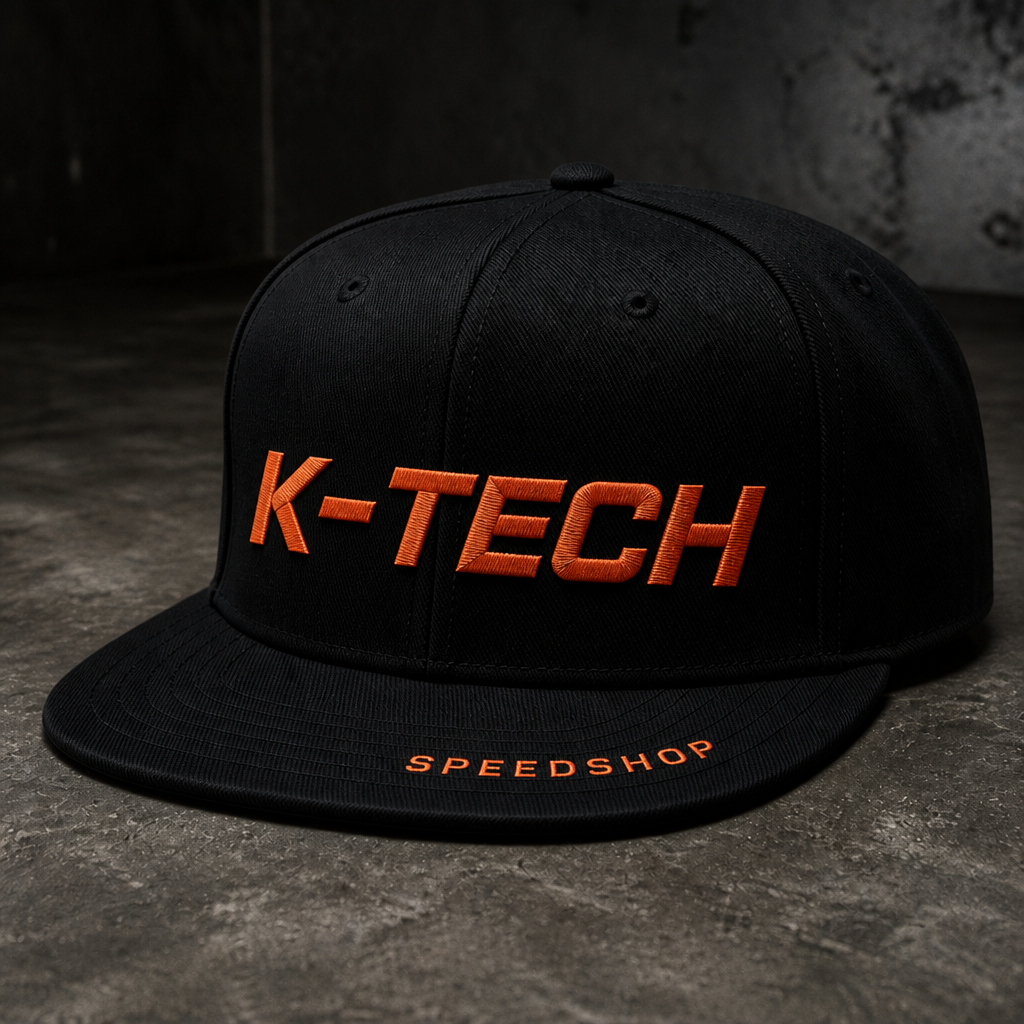
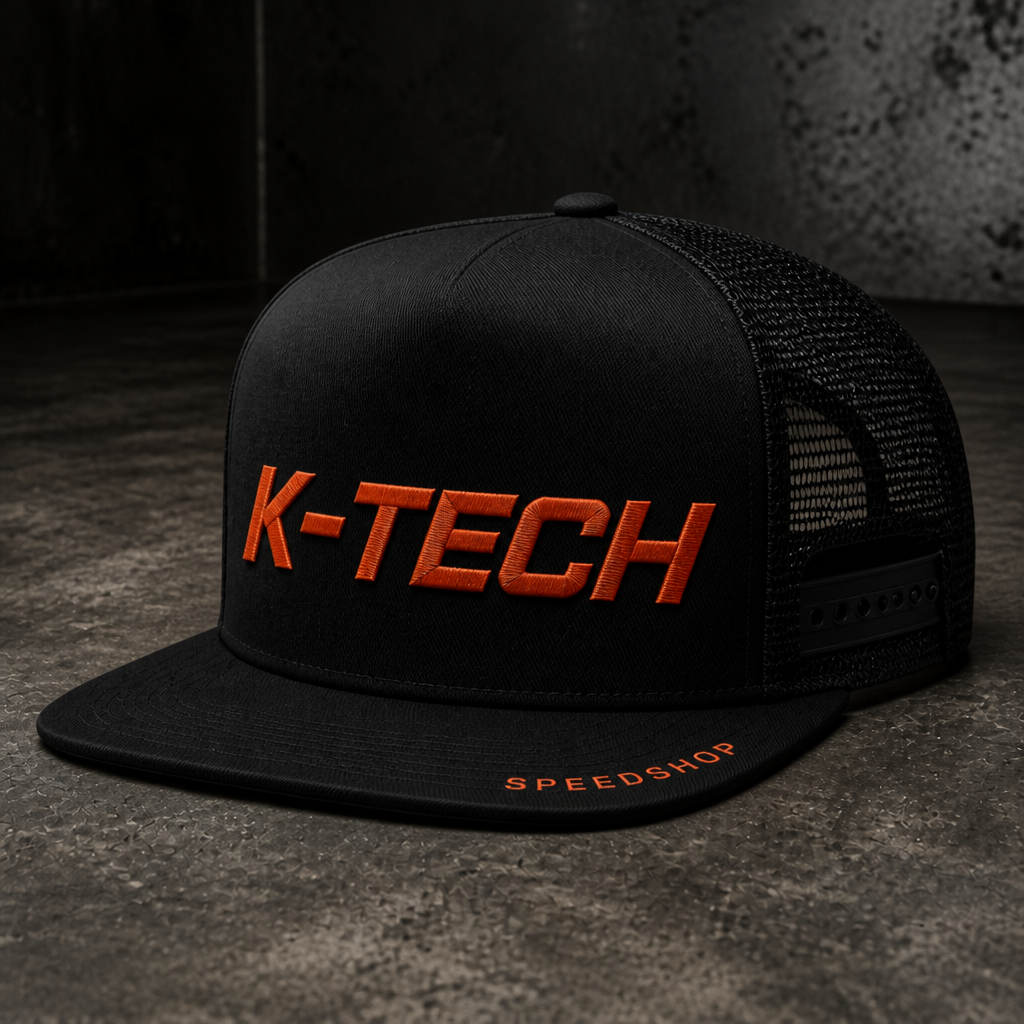
Swap the merch hat to a flat-bill trucker.

diff --git a/dist/shop/index.html b/dist/shop/index.html
@@ -1,6 +1,6 @@
 <!DOCTYPE html><html lang="en"> <head><meta charset="utf-8"><meta name="viewport" content="width=device-width, initial-scale=1"><title>K-TECH Speedshop Merch</title><meta name="description" content="K-TECH Speedshop hats, tees, hoodies, and K_tech merch. Order by Instagram DM or email. Sizes ship from the shop."><link rel="canonical" href="https://ktechspeedshop.com/shop/"><meta name="robots" content="index,follow,max-image-preview:large"><meta property="og:type" content="website"><meta property="og:site_name" content="K-TECH Speedshop"><meta property="og:title" content="K-TECH Speedshop Merch"><meta property="og:description" content="K-TECH Speedshop hats, tees, hoodies, and K_tech merch. Order by Instagram DM or email. Sizes ship from the shop."><meta property="og:url" content="https://ktechspeedshop.com/shop/"><meta property="og:image" content="https://ktechspeedshop.com/images/merch/hat.png"><meta name="twitter:card" content="summary_large_image"><meta name="twitter:title" content="K-TECH Speedshop Merch"><meta name="twitter:description" content="K-TECH Speedshop hats, tees, hoodies, and K_tech merch. Order by Instagram DM or email. Sizes ship from the shop."><meta name="twitter:image" content="https://ktechspeedshop.com/images/merch/hat.png"><link rel="icon" href="/favicon.svg" type="image/svg+xml"><link rel="sitemap" href="/sitemap-index.xml"><script type="application/ld+json">{"@context":"https://schema.org","@graph":[{"@type":"AutomotiveBusiness","@id":"https://ktechspeedshop.com/#business","name":"K-TECH Speedshop","url":"https://ktechspeedshop.com","image":"https://ktechspeedshop.com/images/merch/hat.png","description":"K-TECH Speedshop builds custom Chevrolet C10 trucks and fabricates parts for 1967–1987 C10s. See completed builds, shop merch, and browse projects for sale.","email":"shop@ktechspeedshop.com","sameAs":["https://instagram.com/ktechspeedshop"],"areaServed":"US","knowsAbout":["Chevrolet C10","C10 restomod","custom truck builds","LS swap","air ride","67-72 C10","squarebody C10"]},{"@type":"WebSite","@id":"https://ktechspeedshop.com/#website","url":"https://ktechspeedshop.com","name":"K-TECH Speedshop","description":"K-TECH Speedshop builds custom Chevrolet C10 trucks and fabricates parts for 1967–1987 C10s. See completed builds, shop merch, and browse projects for sale.","publisher":{"@id":"https://ktechspeedshop.com/#business"}}]}</script><link rel="stylesheet" href="/_astro/about.BAKj2FCd.css"></head> <body> <a class="skip" href="#main" style="position:absolute;left:-999px">Skip to content</a>  <header class="site-header"> <a class="wordmark" href="/" aria-label="K-TECH Speedshop home"> <strong>K-TECH</strong> <span>SPEEDSHOP</span> </a> <button class="nav-toggle" type="button" aria-expanded="false" aria-controls="nav">Menu</button> <nav class="nav" id="nav"> <a href="/builds"> Builds </a><a href="/projects"> Projects </a><a href="/for-sale"> For Sale </a><a href="/parts"> Parts </a><a href="/shop" aria-current="page"> Shop </a><a href="/journal"> Journal </a><a href="/about"> The Shop </a> <a class="nav-cta" href="/contact">Build inquiry</a> </nav> </header> <script type="module">const e=document.querySelector(".nav-toggle"),n=document.querySelector("#nav");e?.addEventListener("click",()=>{const t=n?.classList.toggle("open");e.setAttribute("aria-expanded",t?"true":"false")});</script> <main id="main" class="wrap page-hero"> <span class="kicker">Merch</span> <h1>The uniform.</h1> <p class="lede">
 Hats, tees, hoodies. Order by Instagram or email with size. No fake 40-page store.
       When a drop is gone, it is gone.
-</p> <div class="product-grid" style="margin-top:2.2rem"> <article class="product"> <img src="/images/merch/hat.png" alt="K-TECH snapback K-TECH Speedshop merch" width="800" height="800" loading="lazy"> <div class="product-body"> <h3>K-TECH snapback</h3> <p>Black hat, rust K-TECH mark. The one that lives in the shop truck.</p> <p>One size</p> <p class="price">$32</p> <div class="btn-row" style="margin-top:0.8rem"> <a class="btn rust" href="mailto:shop@ktechspeedshop.com?subject=Merch%3A%20K-TECH%20snapback">Email to buy</a> <a class="btn ghost" href="https://instagram.com/ktechspeedshop">DM to buy</a> </div> </div> </article><article class="product"> <img src="/images/merch/tee.png" alt="K-TECH tee K-TECH Speedshop merch" width="800" height="800" loading="lazy"> <div class="product-body"> <h3>K-TECH tee</h3> <p>Heavyweight black tee. K-TECH SPEEDSHOP on the chest.</p> <p>S–XXL</p> <p class="price">$28</p> <div class="btn-row" style="margin-top:0.8rem"> <a class="btn rust" href="mailto:shop@ktechspeedshop.com?subject=Merch%3A%20K-TECH%20tee">Email to buy</a> <a class="btn ghost" href="https://instagram.com/ktechspeedshop">DM to buy</a> </div> </div> </article><article class="product"> <img src="/images/merch/hoodie.png" alt="K-TECH hoodie K-TECH Speedshop merch" width="800" height="800" loading="lazy"> <div class="product-body"> <h3>K-TECH hoodie</h3> <p>K-TECH SPEEDSHOP on the chest. The hoodie you wear in the bay when the heater is lying.</p> <p>S–XXL</p> <p class="price">$58</p> <div class="btn-row" style="margin-top:0.8rem"> <a class="btn rust" href="mailto:shop@ktechspeedshop.com?subject=Merch%3A%20K-TECH%20hoodie">Email to buy</a> <a class="btn ghost" href="https://instagram.com/ktechspeedshop">DM to buy</a> </div> </div> </article><article class="product"> <img src="/images/merch/ktech-tee.png" alt="K_tech tee K-TECH Speedshop merch" width="800" height="800" loading="lazy"> <div class="product-body"> <h3>K_tech tee</h3> <p>Bone mark, rust underscore. The tech side of the shop.</p> <p>S–XXL</p> <p class="price">$28</p> <div class="btn-row" style="margin-top:0.8rem"> <a class="btn rust" href="mailto:shop@ktechspeedshop.com?subject=Merch%3A%20K_tech%20tee">Email to buy</a> <a class="btn ghost" href="https://instagram.com/ktechspeedshop">DM to buy</a> </div> </div> </article><article class="product"> <img src="/images/merch/ktech-sweatshirt.png" alt="K_tech sweatshirt K-TECH Speedshop merch" width="800" height="800" loading="lazy"> <div class="product-body"> <h3>K_tech sweatshirt</h3> <p>Crewneck. K_tech on the chest. For the bay that also ships code.</p> <p>S–XXL</p> <p class="price">$48</p> <div class="btn-row" style="margin-top:0.8rem"> <a class="btn rust" href="mailto:shop@ktechspeedshop.com?subject=Merch%3A%20K_tech%20sweatshirt">Email to buy</a> <a class="btn ghost" href="https://instagram.com/ktechspeedshop">DM to buy</a> </div> </div> </article> </div> </main> <footer class="site-footer"> <div class="footer-grid"> <div> <p class="kicker">K-TECH Speedshop</p> <h2 class="serif" style="font-size:2rem;margin:0.4rem 0 0.8rem">C10 trucks. Custom parts. No filler.</h2> <p style="color:var(--paper-dim);max-width:28rem">
+</p> <div class="product-grid" style="margin-top:2.2rem"> <article class="product"> <img src="/images/merch/hat.png" alt="K-TECH trucker K-TECH Speedshop merch" width="800" height="800" loading="lazy"> <div class="product-body"> <h3>K-TECH trucker</h3> <p>Black flat-bill trucker, rust K-TECH mark. The one that lives in the shop truck.</p> <p>One size</p> <p class="price">$32</p> <div class="btn-row" style="margin-top:0.8rem"> <a class="btn rust" href="mailto:shop@ktechspeedshop.com?subject=Merch%3A%20K-TECH%20trucker">Email to buy</a> <a class="btn ghost" href="https://instagram.com/ktechspeedshop">DM to buy</a> </div> </div> </article><article class="product"> <img src="/images/merch/tee.png" alt="K-TECH tee K-TECH Speedshop merch" width="800" height="800" loading="lazy"> <div class="product-body"> <h3>K-TECH tee</h3> <p>Heavyweight black tee. K-TECH SPEEDSHOP on the chest.</p> <p>S–XXL</p> <p class="price">$28</p> <div class="btn-row" style="margin-top:0.8rem"> <a class="btn rust" href="mailto:shop@ktechspeedshop.com?subject=Merch%3A%20K-TECH%20tee">Email to buy</a> <a class="btn ghost" href="https://instagram.com/ktechspeedshop">DM to buy</a> </div> </div> </article><article class="product"> <img src="/images/merch/hoodie.png" alt="K-TECH hoodie K-TECH Speedshop merch" width="800" height="800" loading="lazy"> <div class="product-body"> <h3>K-TECH hoodie</h3> <p>K-TECH SPEEDSHOP on the chest. The hoodie you wear in the bay when the heater is lying.</p> <p>S–XXL</p> <p class="price">$58</p> <div class="btn-row" style="margin-top:0.8rem"> <a class="btn rust" href="mailto:shop@ktechspeedshop.com?subject=Merch%3A%20K-TECH%20hoodie">Email to buy</a> <a class="btn ghost" href="https://instagram.com/ktechspeedshop">DM to buy</a> </div> </div> </article><article class="product"> <img src="/images/merch/ktech-tee.png" alt="K_tech tee K-TECH Speedshop merch" width="800" height="800" loading="lazy"> <div class="product-body"> <h3>K_tech tee</h3> <p>Bone mark, rust underscore. The tech side of the shop.</p> <p>S–XXL</p> <p class="price">$28</p> <div class="btn-row" style="margin-top:0.8rem"> <a class="btn rust" href="mailto:shop@ktechspeedshop.com?subject=Merch%3A%20K_tech%20tee">Email to buy</a> <a class="btn ghost" href="https://instagram.com/ktechspeedshop">DM to buy</a> </div> </div> </article><article class="product"> <img src="/images/merch/ktech-sweatshirt.png" alt="K_tech sweatshirt K-TECH Speedshop merch" width="800" height="800" loading="lazy"> <div class="product-body"> <h3>K_tech sweatshirt</h3> <p>Crewneck. K_tech on the chest. For the bay that also ships code.</p> <p>S–XXL</p> <p class="price">$48</p> <div class="btn-row" style="margin-top:0.8rem"> <a class="btn rust" href="mailto:shop@ktechspeedshop.com?subject=Merch%3A%20K_tech%20sweatshirt">Email to buy</a> <a class="btn ghost" href="https://instagram.com/ktechspeedshop">DM to buy</a> </div> </div> </article> </div> </main> <footer class="site-footer"> <div class="footer-grid"> <div> <p class="kicker">K-TECH Speedshop</p> <h2 class="serif" style="font-size:2rem;margin:0.4rem 0 0.8rem">C10 trucks. Custom parts. No filler.</h2> <p style="color:var(--paper-dim);max-width:28rem">
 Custom Chevrolet C10 builds and parts for 1967–1972 and 1973–1987 squarebody trucks.
 </p> </div> <div class="footer-col"> <strong>Shop</strong> <a href="/builds">Builds</a> <a href="/projects">Build logs</a> <a href="/for-sale">For sale</a> <a href="/parts">C10 parts</a> <a href="/shop">Merch</a> </div> <div class="footer-col"> <strong>Learn</strong> <a href="/journal">Journal</a> <a href="/journal/67-72-vs-squarebody-c10">67–72 vs squarebody</a> <a href="/journal/what-a-custom-c10-build-costs">Build costs</a> <a href="/about">The shop</a> </div> <div class="footer-col"> <strong>Contact</strong> <a href="https://instagram.com/ktechspeedshop" rel="noopener noreferrer">@ktechspeedshop</a> <a href="mailto:shop@ktechspeedshop.com">shop@ktechspeedshop.com</a> <a href="/contact">Start a build</a> </div> </div> <div class="legal"> <span>© 2026 K-TECH Speedshop</span> <span>Custom C10 builds · parts · merch</span> </div> </footer>  </body></html>

diff --git a/dist/index.html b/dist/index.html
@@ -9,7 +9,7 @@ Custom Chevrolet C10 builds, shop-made parts, and the occasional truck for sale.
 Most C10 sites are a parts dump with a blurry photo of a truck in a parking lot.
             We lead with the builds, sell the hardware we actually run, and keep a couple of
             projects on the market.
-</p> <div class="btn-row" style="margin-top:1.4rem"> <a class="btn rust" href="/parts">Shop C10 parts</a> <a class="btn ghost" href="/contact">Start a build</a> </div> </div> </div> </section> <section class="section" style="background:var(--bg-2)"> <div class="wrap"> <div class="section-head"> <div> <span class="kicker">For sale</span> <h2>Projects on the market.</h2> </div> <a class="btn ghost" href="/for-sale">See inventory</a> </div> <div class="photo-grid"> <a class="card" href="/for-sale/68-c10-project"> <img src="/images/builds/71-project.png" alt="1968 Chevrolet C10 C10 for sale at K-TECH Speedshop" loading="lazy" width="1200" height="800"> <div class="card-meta"> <small>1968 · Inquire</small> <h3>1968 C10 project</h3> </div> </a><a class="card" href="/for-sale/78-squarebody-driver"> <img src="/images/builds/78-square.png" alt="1978 Chevrolet C10 C10 for sale at K-TECH Speedshop" loading="lazy" width="1200" height="800"> <div class="card-meta"> <small>1978 · Coming to market</small> <h3>1978 C10 squarebody</h3> </div> </a> </div> </div> </section> <section class="section"> <div class="wrap"> <div class="section-head"> <div> <span class="kicker">Shop</span> <h2>Hats, shirts, the uniform.</h2> </div> <a class="btn ghost" href="/shop">All merch</a> </div> <div class="product-grid"> <a class="product" href="/shop"> <img src="/images/merch/hat.png" alt="K-TECH snapback from K-TECH Speedshop" width="800" height="800" loading="lazy"> <div class="product-body"> <h3>K-TECH snapback</h3> <p>Black hat, rust K-TECH mark. The one that lives in the shop truck.</p> <span class="price">$32</span> </div> </a><a class="product" href="/shop"> <img src="/images/merch/tee.png" alt="K-TECH tee from K-TECH Speedshop" width="800" height="800" loading="lazy"> <div class="product-body"> <h3>K-TECH tee</h3> <p>Heavyweight black tee. K-TECH SPEEDSHOP on the chest.</p> <span class="price">$28</span> </div> </a><a class="product" href="/shop"> <img src="/images/merch/hoodie.png" alt="K-TECH hoodie from K-TECH Speedshop" width="800" height="800" loading="lazy"> <div class="product-body"> <h3>K-TECH hoodie</h3> <p>K-TECH SPEEDSHOP on the chest. The hoodie you wear in the bay when the heater is lying.</p> <span class="price">$58</span> </div> </a><a class="product" href="/shop"> <img src="/images/merch/ktech-tee.png" alt="K_tech tee from K-TECH Speedshop" width="800" height="800" loading="lazy"> <div class="product-body"> <h3>K_tech tee</h3> <p>Bone mark, rust underscore. The tech side of the shop.</p> <span class="price">$28</span> </div> </a><a class="product" href="/shop"> <img src="/images/merch/ktech-sweatshirt.png" alt="K_tech sweatshirt from K-TECH Speedshop" width="800" height="800" loading="lazy"> <div class="product-body"> <h3>K_tech sweatshirt</h3> <p>Crewneck. K_tech on the chest. For the bay that also ships code.</p> <span class="price">$48</span> </div> </a> </div> </div> </section> <section class="section" style="padding-top:0"> <div class="wrap"> <div class="section-head"> <div> <span class="kicker">Parts</span> <h2>Hardware from the same bench.</h2> </div> <a class="btn ghost" href="/parts">All parts</a> </div> <div class="product-grid"> <a class="product" href="/parts/67-72-tailgate-latch"> <img src="/images/parts/latch.png" alt="67–72 C10 tailgate latch kit for Chevrolet C10" width="800" height="800" loading="lazy"> <div class="product-body"> <h3>67–72 C10 tailgate latch kit</h3> <p>1967–1972 C10 / C20</p> <span class="price">$425</span> </div> </a><a class="product" href="/parts/bed-floor-hinges"> <img src="/images/parts/metal.jpg" alt="Billet bed floor hinges for Chevrolet C10" width="800" height="800" loading="lazy"> <div class="product-body"> <h3>Billet bed floor hinges</h3> <p>C10 beds, custom floors</p> <span class="price">$1,000+</span> </div> </a><a class="product" href="/parts/ls-swap-crossmember"> <img src="/images/builds/engine-bay-ls.png" alt="C10 LS swap crossmember for Chevrolet C10" width="800" height="800" loading="lazy"> <div class="product-body"> <h3>C10 LS swap crossmember</h3> <p>60–72 and 73–87 C10</p> <span class="price">Inquire</span> </div> </a> </div> </div> </section> <section class="ig-band"> <img src="/images/shop/garage.jpg" alt="K-TECH Speedshop garage floor during a C10 build" width="1600" height="1000" loading="lazy"> <div> <span class="kicker">Follow the shop</span> <h2>@ktechspeedshop</h2> <p class="lede">
+</p> <div class="btn-row" style="margin-top:1.4rem"> <a class="btn rust" href="/parts">Shop C10 parts</a> <a class="btn ghost" href="/contact">Start a build</a> </div> </div> </div> </section> <section class="section" style="background:var(--bg-2)"> <div class="wrap"> <div class="section-head"> <div> <span class="kicker">For sale</span> <h2>Projects on the market.</h2> </div> <a class="btn ghost" href="/for-sale">See inventory</a> </div> <div class="photo-grid"> <a class="card" href="/for-sale/68-c10-project"> <img src="/images/builds/71-project.png" alt="1968 Chevrolet C10 C10 for sale at K-TECH Speedshop" loading="lazy" width="1200" height="800"> <div class="card-meta"> <small>1968 · Inquire</small> <h3>1968 C10 project</h3> </div> </a><a class="card" href="/for-sale/78-squarebody-driver"> <img src="/images/builds/78-square.png" alt="1978 Chevrolet C10 C10 for sale at K-TECH Speedshop" loading="lazy" width="1200" height="800"> <div class="card-meta"> <small>1978 · Coming to market</small> <h3>1978 C10 squarebody</h3> </div> </a> </div> </div> </section> <section class="section"> <div class="wrap"> <div class="section-head"> <div> <span class="kicker">Shop</span> <h2>Hats, shirts, the uniform.</h2> </div> <a class="btn ghost" href="/shop">All merch</a> </div> <div class="product-grid"> <a class="product" href="/shop"> <img src="/images/merch/hat.png" alt="K-TECH trucker from K-TECH Speedshop" width="800" height="800" loading="lazy"> <div class="product-body"> <h3>K-TECH trucker</h3> <p>Black flat-bill trucker, rust K-TECH mark. The one that lives in the shop truck.</p> <span class="price">$32</span> </div> </a><a class="product" href="/shop"> <img src="/images/merch/tee.png" alt="K-TECH tee from K-TECH Speedshop" width="800" height="800" loading="lazy"> <div class="product-body"> <h3>K-TECH tee</h3> <p>Heavyweight black tee. K-TECH SPEEDSHOP on the chest.</p> <span class="price">$28</span> </div> </a><a class="product" href="/shop"> <img src="/images/merch/hoodie.png" alt="K-TECH hoodie from K-TECH Speedshop" width="800" height="800" loading="lazy"> <div class="product-body"> <h3>K-TECH hoodie</h3> <p>K-TECH SPEEDSHOP on the chest. The hoodie you wear in the bay when the heater is lying.</p> <span class="price">$58</span> </div> </a><a class="product" href="/shop"> <img src="/images/merch/ktech-tee.png" alt="K_tech tee from K-TECH Speedshop" width="800" height="800" loading="lazy"> <div class="product-body"> <h3>K_tech tee</h3> <p>Bone mark, rust underscore. The tech side of the shop.</p> <span class="price">$28</span> </div> </a><a class="product" href="/shop"> <img src="/images/merch/ktech-sweatshirt.png" alt="K_tech sweatshirt from K-TECH Speedshop" width="800" height="800" loading="lazy"> <div class="product-body"> <h3>K_tech sweatshirt</h3> <p>Crewneck. K_tech on the chest. For the bay that also ships code.</p> <span class="price">$48</span> </div> </a> </div> </div> </section> <section class="section" style="padding-top:0"> <div class="wrap"> <div class="section-head"> <div> <span class="kicker">Parts</span> <h2>Hardware from the same bench.</h2> </div> <a class="btn ghost" href="/parts">All parts</a> </div> <div class="product-grid"> <a class="product" href="/parts/67-72-tailgate-latch"> <img src="/images/parts/latch.png" alt="67–72 C10 tailgate latch kit for Chevrolet C10" width="800" height="800" loading="lazy"> <div class="product-body"> <h3>67–72 C10 tailgate latch kit</h3> <p>1967–1972 C10 / C20</p> <span class="price">$425</span> </div> </a><a class="product" href="/parts/bed-floor-hinges"> <img src="/images/parts/metal.jpg" alt="Billet bed floor hinges for Chevrolet C10" width="800" height="800" loading="lazy"> <div class="product-body"> <h3>Billet bed floor hinges</h3> <p>C10 beds, custom floors</p> <span class="price">$1,000+</span> </div> </a><a class="product" href="/parts/ls-swap-crossmember"> <img src="/images/builds/engine-bay-ls.png" alt="C10 LS swap crossmember for Chevrolet C10" width="800" height="800" loading="lazy"> <div class="product-body"> <h3>C10 LS swap crossmember</h3> <p>60–72 and 73–87 C10</p> <span class="price">Inquire</span> </div> </a> </div> </div> </section> <section class="ig-band"> <img src="/images/shop/garage.jpg" alt="K-TECH Speedshop garage floor during a C10 build" width="1600" height="1000" loading="lazy"> <div> <span class="kicker">Follow the shop</span> <h2>@ktechspeedshop</h2> <p class="lede">
 In-progress metal, finished trucks, parts on the mill, and whatever is for sale this week.
           Instagram is the live feed. This site is the record.
 </p> <div class="btn-row" style="margin-top:1.2rem"> <a class="btn rust" href="https://instagram.com/ktechspeedshop" rel="noopener noreferrer">Open Instagram</a> <a class="btn ghost" href="/contact">Email the shop</a> </div> </div> </section> </main> <footer class="site-footer"> <div class="footer-grid"> <div> <p class="kicker">K-TECH Speedshop</p> <h2 class="serif" style="font-size:2rem;margin:0.4rem 0 0.8rem">C10 trucks. Custom parts. No filler.</h2> <p style="color:var(--paper-dim);max-width:28rem">

diff --git a/src/data/catalog.ts b/src/data/catalog.ts
@@ -277,11 +277,11 @@ export const parts: Part[] = [
 
 export const merch: Merch[] = [
   {
-    slug: "ktech-snapback",
-    title: "K-TECH snapback",
+    slug: "ktech-trucker",
+    title: "K-TECH trucker",
     price: "$32",
     cover: "/images/merch/hat.png",
-    summary: "Black hat, rust K-TECH mark. The one that lives in the shop truck.",
+    summary: "Black flat-bill trucker, rust K-TECH mark. The one that lives in the shop truck.",
     sizes: "One size",
   },
   {
